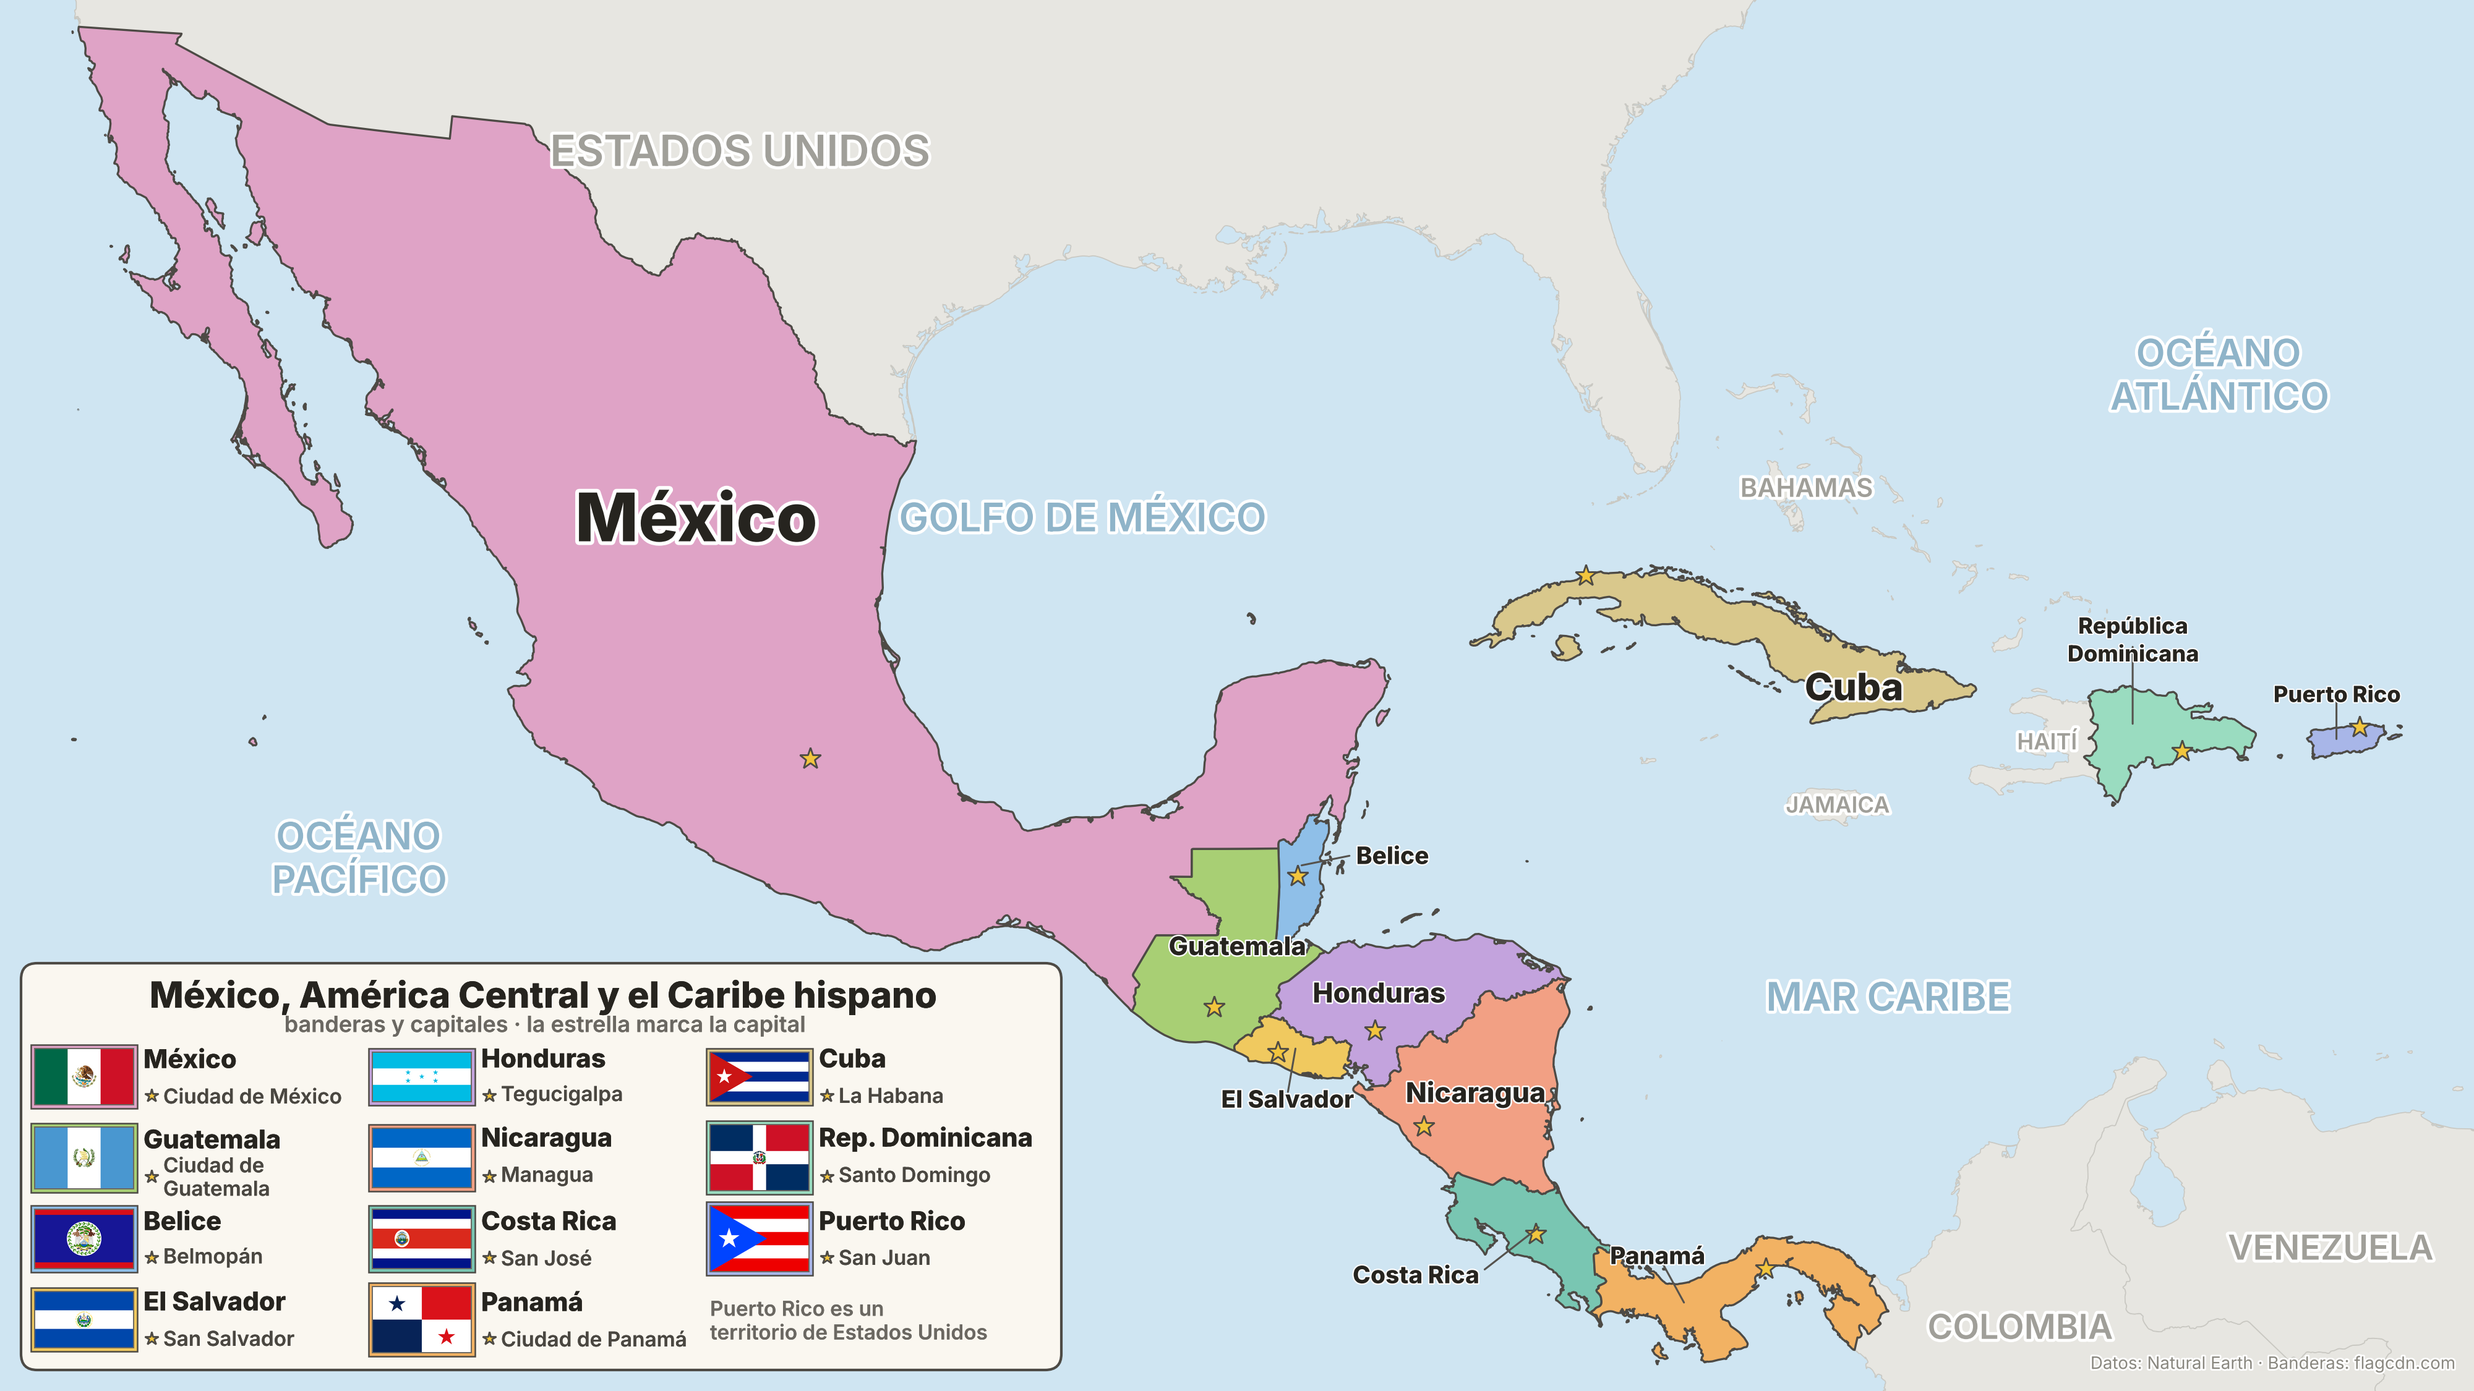
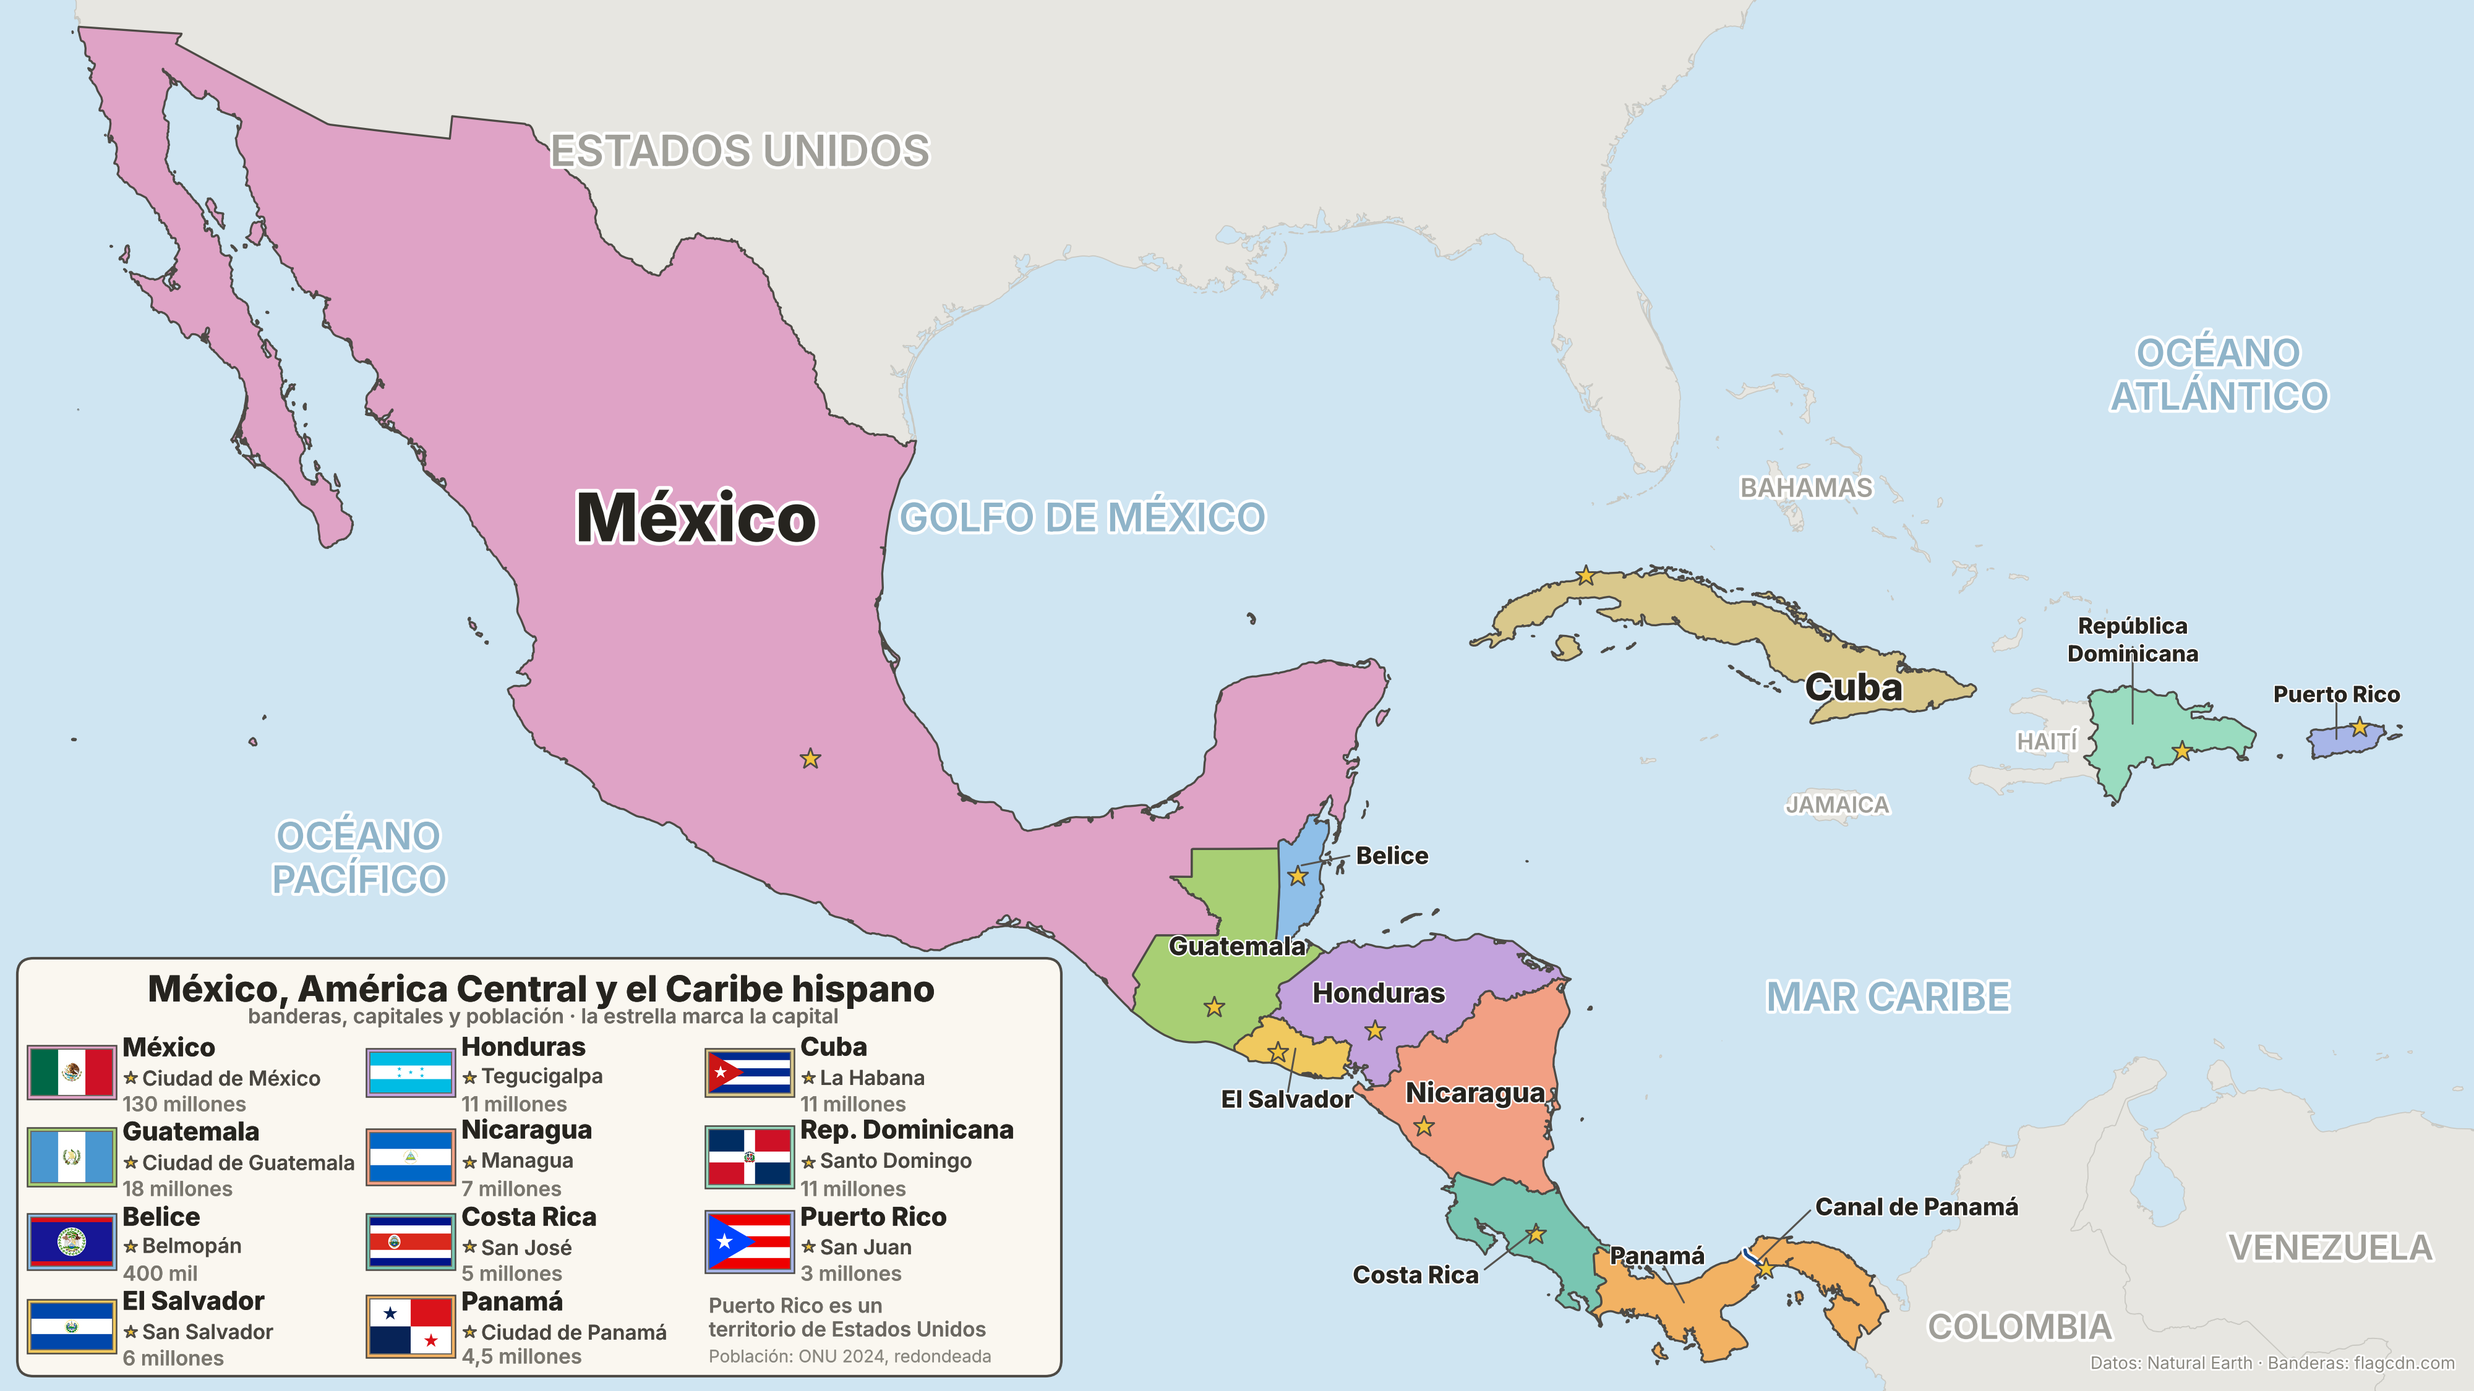
Draw the Panama Canal on both maps, add population to the extended legend
The canal: Natural Earth has no canal layer for the isthmus, so the course is
traced by hand (Colón, Gatún, Gamboa, Pedro Miguel, Miraflores, Balboa) the
same way the Nervión and Llobregat are on the Spanish maps. At ~60 km it is
only 90 px on the isthmus map and 44 px on the extended one, so it is drawn as
a navy line with a white casing, labelled on a leader into the Caribbean — the
Gulf of Panama side is taken by the capital and the Islas Perlas. Ciudad de
Panamá's label moves east of its star to give that leader a clear run.

Population, extended map only: a third line per panel cell, rounded on purpose
— whole millions above five, half millions below, thousands for Belice — so the
figures are numbers a viewer can repeat rather than census precision. Fitting
three lines in a 139 px cell needed smaller flags (132 px), which in turn frees
enough width that Ciudad de Guatemala no longer has to wrap. The spare twelfth
cell now also sources the figures next to where they are read.

Claude-Session: https://claude.ai/code/session_01BvMWTujevuUfifAzVdkL3r

Changed region(s): [[0.0, 0.6844, 0.4375, 0.9956], [0.7188, 0.84, 0.8125, 0.8711]]

diff --git a/tvmaps/maps_centroamerica.py b/tvmaps/maps_centroamerica.py
@@ -130,7 +130,8 @@ CAPITAL_LABELS = {
     "HN": Place(34, dx=22, dy=-16, ha="left"),
     "NI": Place(34, dx=-20, dy=-24, ha="right"),
     "CR": Place(34, dx=20, dy=24, ha="left"),
-    "PA": Place(34, dx=6, dy=32, ha="left", text="Ciudad de\nPanamá"),
+    # East of its star, to leave the canal's leader line a clear run north-east.
+    "PA": Place(34, dx=28, dy=8, ha="left", text="Ciudad de\nPanamá"),
 }
 
 # Neighbours and waters, in the muted register of the Spanish maps.
@@ -147,6 +148,36 @@ WATER_LABELS = [
 ]
 
 WATER_COLOR = "#8fb4c9"
+
+# --- Panama Canal ----------------------------------------------------------
+#
+# Natural Earth has no canal for this region, so the course is traced by hand
+# (the same treatment the Nervión and Llobregat get on the Spanish maps):
+# Cristóbal/Colón on the Caribbean, up the Gatún locks and across the lake to
+# Gamboa, then Pedro Miguel and Miraflores down to Balboa on the Pacific.
+# Only ~60 km end to end, so it is drawn as a cased line to stay visible.
+CANAL_LONLAT = [
+    (-79.917, 9.371), (-79.905, 9.290), (-79.845, 9.230), (-79.780, 9.190),
+    (-79.700, 9.120), (-79.630, 9.045), (-79.588, 8.985), (-79.556, 8.930),
+]
+CANAL_COLOR = "#1a4a8a"
+
+
+def _draw_canal(ax, spec, crs=geo.CENTRAL_AMERICA_CRS, width=5.0, casing=11.0):
+    """The Panama Canal as a white-cased line, plus its label on a leader."""
+    pts = [_project_lonlat(lon, lat, crs) for lon, lat in CANAL_LONLAT]
+    xs, ys = [p[0] for p in pts], [p[1] for p in pts]
+    ax.plot(xs, ys, "-", color="#ffffff", linewidth=casing, solid_capstyle="round",
+            zorder=6)
+    ax.plot(xs, ys, "-", color=CANAL_COLOR, linewidth=width,
+            solid_capstyle="round", zorder=7)
+    mid = pts[len(pts) // 2]
+    _label_place(ax, mid, spec.text or "Canal de Panamá", spec)
+
+
+# Both maps put the canal's name in the Caribbean north-east of it: the Gulf of
+# Panama side is already busy with the capital and the Islas Perlas.
+CANAL_LABEL = Place(34, tx=95, ty=145, ha="left")
 
 
 def _draw_context_labels(ax, frame, panel, context=None, water=None,
@@ -171,8 +202,10 @@ def _draw_context_labels(ax, frame, panel, context=None, water=None,
 
 def _flag_entry(ax, u, left, cy, iso, name, capital, flag_w=270, name_size=46,
                 cap_size=34, gap=30, name_dy=10, cap_dy=40, star=22,
-                star_dx=18, cap_dx=44, mat_px=8):
-    """One panel entry: matted flag, country name, star + capital name.
+                star_dx=18, cap_dx=44, mat_px=8, pop=None, pop_size=24,
+                pop_dy=50):
+    """One panel entry: matted flag, country name, star + capital name, and
+    optionally a third line with the population.
 
     `left`/`cy` are the flag's left edge and vertical centre; every other
     measurement is in canvas pixels, scaled to data units by `u`."""
@@ -187,6 +220,10 @@ def _flag_entry(ax, u, left, cy, iso, name, capital, flag_w=270, name_size=46,
     draw.halo_text(ax, text_left + cap_dx * u, cy - cap_dy * u, capital,
                    cap_size, weight="semibold", color="#4a4741", halo_width=0,
                    ha="left", zorder=20)
+    if pop:
+        draw.halo_text(ax, text_left, cy - pop_dy * u, pop, pop_size,
+                       weight="semibold", color="#7a776f", halo_width=0,
+                       ha="left", zorder=20)
 
 
 def _draw_flag_panel(ax, frame, capital_names):
@@ -235,6 +272,8 @@ def map_centroamerica():
         xy = geo.label_point(row.geometry, tol=1000.0)
         _label_place(ax, xy, spec.text or COUNTRY_NAMES[row.iso], spec)
 
+    _draw_canal(ax, CANAL_LABEL)
+
     capital_names = dict(zip(s["capitals"].iso, s["capitals"]["name"]))
     for _, row in s["capitals"].iterrows():
         spec = CAPITAL_LABELS[row.iso]
@@ -279,15 +318,34 @@ EXT_CORE_BOX = (-118.0, 6.9, -64.9, 33.0)
 # Panel box in canvas pixels, measured from the lower-left corner. The rule the
 # top edge obeys: no Mexican territory may be covered. The Pacific coast comes
 # down to y≈712 px around Michoacán and the Islas Revillagigedo sit at y≈1045,
-# so 692 is as tall as this panel can get at this width.
-EXT_PANEL_PX = (34, 34, 1716, 692)
+# so 700 is as tall as this panel can get at this width — and every pixel is
+# needed, because each cell carries three lines of text.
+EXT_PANEL_PX = (28, 24, 1716, 700)
 EXT_COLS, EXT_ROWS = 3, 4
 
-# Panel cells are 546 px wide, which is not enough for every name at full
+# Panel cells are ~548 px wide, which is not enough for every name at full
 # length: the Dominican Republic gets the usual atlas abbreviation (a two-line
-# wrap would climb into the row above) and Guatemala's capital wraps.
+# wrap would climb into the row above).
 EXT_PANEL_NAMES = {"DO": "Rep. Dominicana"}
-EXT_PANEL_CAPITALS = {"GT": "Ciudad de\nGuatemala"}
+EXT_PANEL_CAPITALS = {}
+
+# Population for the panel, deliberately rounded to numbers a viewer can
+# remember and repeat: whole millions above five, half millions below, and
+# thousands for Belice. Estimates for 2024 (UN World Population Prospects);
+# they move slowly enough that the rounding outlives the data.
+COUNTRY_POPULATION = {
+    "MX": "130 millones",
+    "GT": "18 millones",
+    "BZ": "400 mil",
+    "SV": "6 millones",
+    "HN": "11 millones",
+    "NI": "7 millones",
+    "CR": "5 millones",
+    "PA": "4,5 millones",
+    "CU": "11 millones",
+    "DO": "11 millones",
+    "PR": "3 millones",
+}
 
 
 def ext_scene():
@@ -336,6 +394,8 @@ EXT_CONTEXT_LABELS = [
     ("VENEZUELA", -68.3, 8.2, 40, 0),
 ]
 
+EXT_CANAL_LABEL = Place(28, tx=130, ty=125, ha="left")
+
 EXT_WATER_LABELS = [
     ("GOLFO DE MÉXICO", -93.4, 24.6, 46, 0),
     ("MAR CARIBE", -76.6, 14.2, 46, 0),
@@ -350,34 +410,41 @@ def _draw_ext_panel(ax, frame, capital_names):
     draw.panel_box(ax, box)
     bx0, by0, bx1, by1 = box
 
-    draw.halo_text(ax, (bx0 + bx1) / 2, by1 - 22 * u,
+    draw.halo_text(ax, (bx0 + bx1) / 2, by1 - 20 * u,
                    "México, América Central y el Caribe hispano", 42,
                    weight="extrabold", color=style.LABEL_COLOR, halo_width=0,
                    va="top", zorder=20)
-    draw.halo_text(ax, (bx0 + bx1) / 2, by1 - 80 * u,
-                   "banderas y capitales · la estrella marca la capital", 26,
+    draw.halo_text(ax, (bx0 + bx1) / 2, by1 - 76 * u,
+                   "banderas, capitales y población · "
+                   "la estrella marca la capital", 24,
                    weight="semibold", color="#6b6862", halo_width=0,
                    va="top", zorder=20)
 
-    grid_top = by1 - 118 * u
+    grid_top = by1 - 116 * u
     cell_w = (bx1 - bx0 - 44 * u) / EXT_COLS
-    cell_h = (grid_top - by0 - 16 * u) / EXT_ROWS
+    cell_h = (grid_top - by0 - 12 * u) / EXT_ROWS
     for i, iso in enumerate(EXT_ORDER):
         col, row = divmod(i, EXT_ROWS)
         _flag_entry(ax, u, bx0 + 22 * u + col * cell_w,
                     grid_top - (row + 0.5) * cell_h, iso,
                     EXT_PANEL_NAMES.get(iso, COUNTRY_NAMES[iso]),
                     EXT_PANEL_CAPITALS.get(iso, capital_names[iso]),
-                    flag_w=160, name_size=30, cap_size=24, gap=16, name_dy=6,
-                    cap_dy=30, star=16, star_dx=13, cap_dx=32, mat_px=6)
+                    flag_w=132, name_size=30, cap_size=24, gap=16, name_dy=18,
+                    cap_dy=8, star=16, star_dx=13, cap_dx=32, mat_px=6,
+                    pop=COUNTRY_POPULATION[iso], pop_size=24, pop_dy=50)
 
     # The twelfth cell is free: use it to say what Puerto Rico is, since it is
-    # the one protagonist that is not a sovereign country.
+    # the one protagonist that is not a sovereign country, and to source the
+    # population figures next to where they are read.
     col, row = divmod(len(EXT_ORDER), EXT_ROWS)
-    draw.halo_text(ax, bx0 + 22 * u + col * cell_w,
-                   grid_top - (row + 0.5) * cell_h,
+    cx, cy = bx0 + 22 * u + col * cell_w, grid_top - (row + 0.5) * cell_h
+    draw.halo_text(ax, cx, cy + 16 * u,
                    "Puerto Rico es un\nterritorio de Estados Unidos", 24,
                    weight="semibold", color="#6b6862", halo_width=0,
+                   ha="left", zorder=20)
+    draw.halo_text(ax, cx, cy - 50 * u,
+                   "Población: ONU 2024, redondeada", 20,
+                   weight="regular", color="#8a8880", halo_width=0,
                    ha="left", zorder=20)
 
 
@@ -405,6 +472,9 @@ def map_mexico_centroamerica_caribe():
         spec = EXT_COUNTRY_LABELS[row.iso]
         xy = geo.label_point(row.geometry, tol=1000.0)
         _label_place(ax, xy, spec.text or COUNTRY_NAMES[row.iso], spec)
+
+    _draw_canal(ax, EXT_CANAL_LABEL, crs=geo.MEXICO_CARIBE_CRS, width=4.0,
+                casing=9.0)
 
     for _, row in s["capitals"].iterrows():
         draw.city_star(ax, (row.geometry.x, row.geometry.y), size=26)

diff --git a/README.md b/README.md
@@ -38,8 +38,8 @@ Everything lands in [`output/`](output/), pre-rendered and committed:
 | `gijon-calles-centro` | Schematic street map of central Gijón: the structural streets as bold coloured strokes with names along them, landmark pictograms, sea/beach/harbour |
 | `gijon-calles-medio` | The same street skeleton zoomed out to El Natahoyo, El Llano and Ceares, adding barrio ghost names, the río Piles and Los Pericones |
 | `gijon-calles-amplio` | The widest Gijón frame: the AS-19 and AS-II corridors, La Calzada and Roces to the Universidad Laboral, Jardín Botánico and Hospital de Cabueñes |
-| `centroamerica` | The seven countries of América Central with their capitals, plus a side panel of the seven flags — each framed in its country's map color |
-| `mexico-centroamerica-caribe` | The same zoomed out to México and the Spanish-speaking Antilles (Cuba, República Dominicana, Puerto Rico): 11 countries, 11 flags in a grid over the Pacific, capitals as stars |
+| `centroamerica` | The seven countries of América Central with their capitals and the Panama Canal, plus a side panel of the seven flags — each framed in its country's map color |
+| `mexico-centroamerica-caribe` | The same zoomed out to México and the Spanish-speaking Antilles (Cuba, República Dominicana, Puerto Rico): 11 countries, 11 flags in a grid over the Pacific with capital and population per country, capitals as stars |
 | `*-mudo` | The same maps without names ("mapa mudo"), for quizzing yourself |
 
 All on-map text is in Spanish. Instead of big titles, each map carries a small
@@ -126,6 +126,10 @@ need network access; only `make data` does.
   contributors, ODbL) and committed to `data/processed/cities.geojson`.
   Populations: INE (padrón, 1 Jan 2025 for Spain; 2023 for Asturias).
   Comarca composition: decree 11/91 of the Principado de Asturias.
+- **Panama Canal** — traced by hand (Colón, Gatún, Gamboa, Pedro Miguel,
+  Miraflores, Balboa); Natural Earth has no canal layer for the isthmus.
+  Populations in the América Central panel are UN World Population Prospects
+  2024 estimates, deliberately rounded to numbers worth remembering.
 - **Wine / food regions** — approximate zones, hand-placed from the Spanish
   Ministry (MAPA) DOP/IGP references and each consejo regulador; the Nervión
   and Llobregat courses (too small for Natural Earth) are traced by hand from

diff --git a/CLAUDE.md b/CLAUDE.md
@@ -97,6 +97,14 @@ Conventions:
     stars on the map and the panel is what names them.
   - In both, context/water labels that would fall inside the panel rect are
     skipped automatically by `_draw_context_labels`.
+  - The Panama Canal (`CANAL_LONLAT`, `_draw_canal`) is hand-traced — Natural
+    Earth has no canal here — and drawn as a white-cased navy line so ~60 km
+    still reads at either scale. Its label goes north-east into the Caribbean;
+    the Gulf of Panama side is taken by the capital and the Islas Perlas.
+  - Panel populations (`COUNTRY_POPULATION`, extended map only) are rounded on
+    purpose: whole millions above five, half millions below, thousands for
+    Belice. Keep them rounded — the point is numbers a viewer can repeat, and
+    the rounding outlives the estimate.
 - Community colors are hand-tuned so neighbours differ; if you change one,
   check its neighbours. Provinces use `style.shade()` variations of the
   community color. Concejos use greedy graph coloring.
